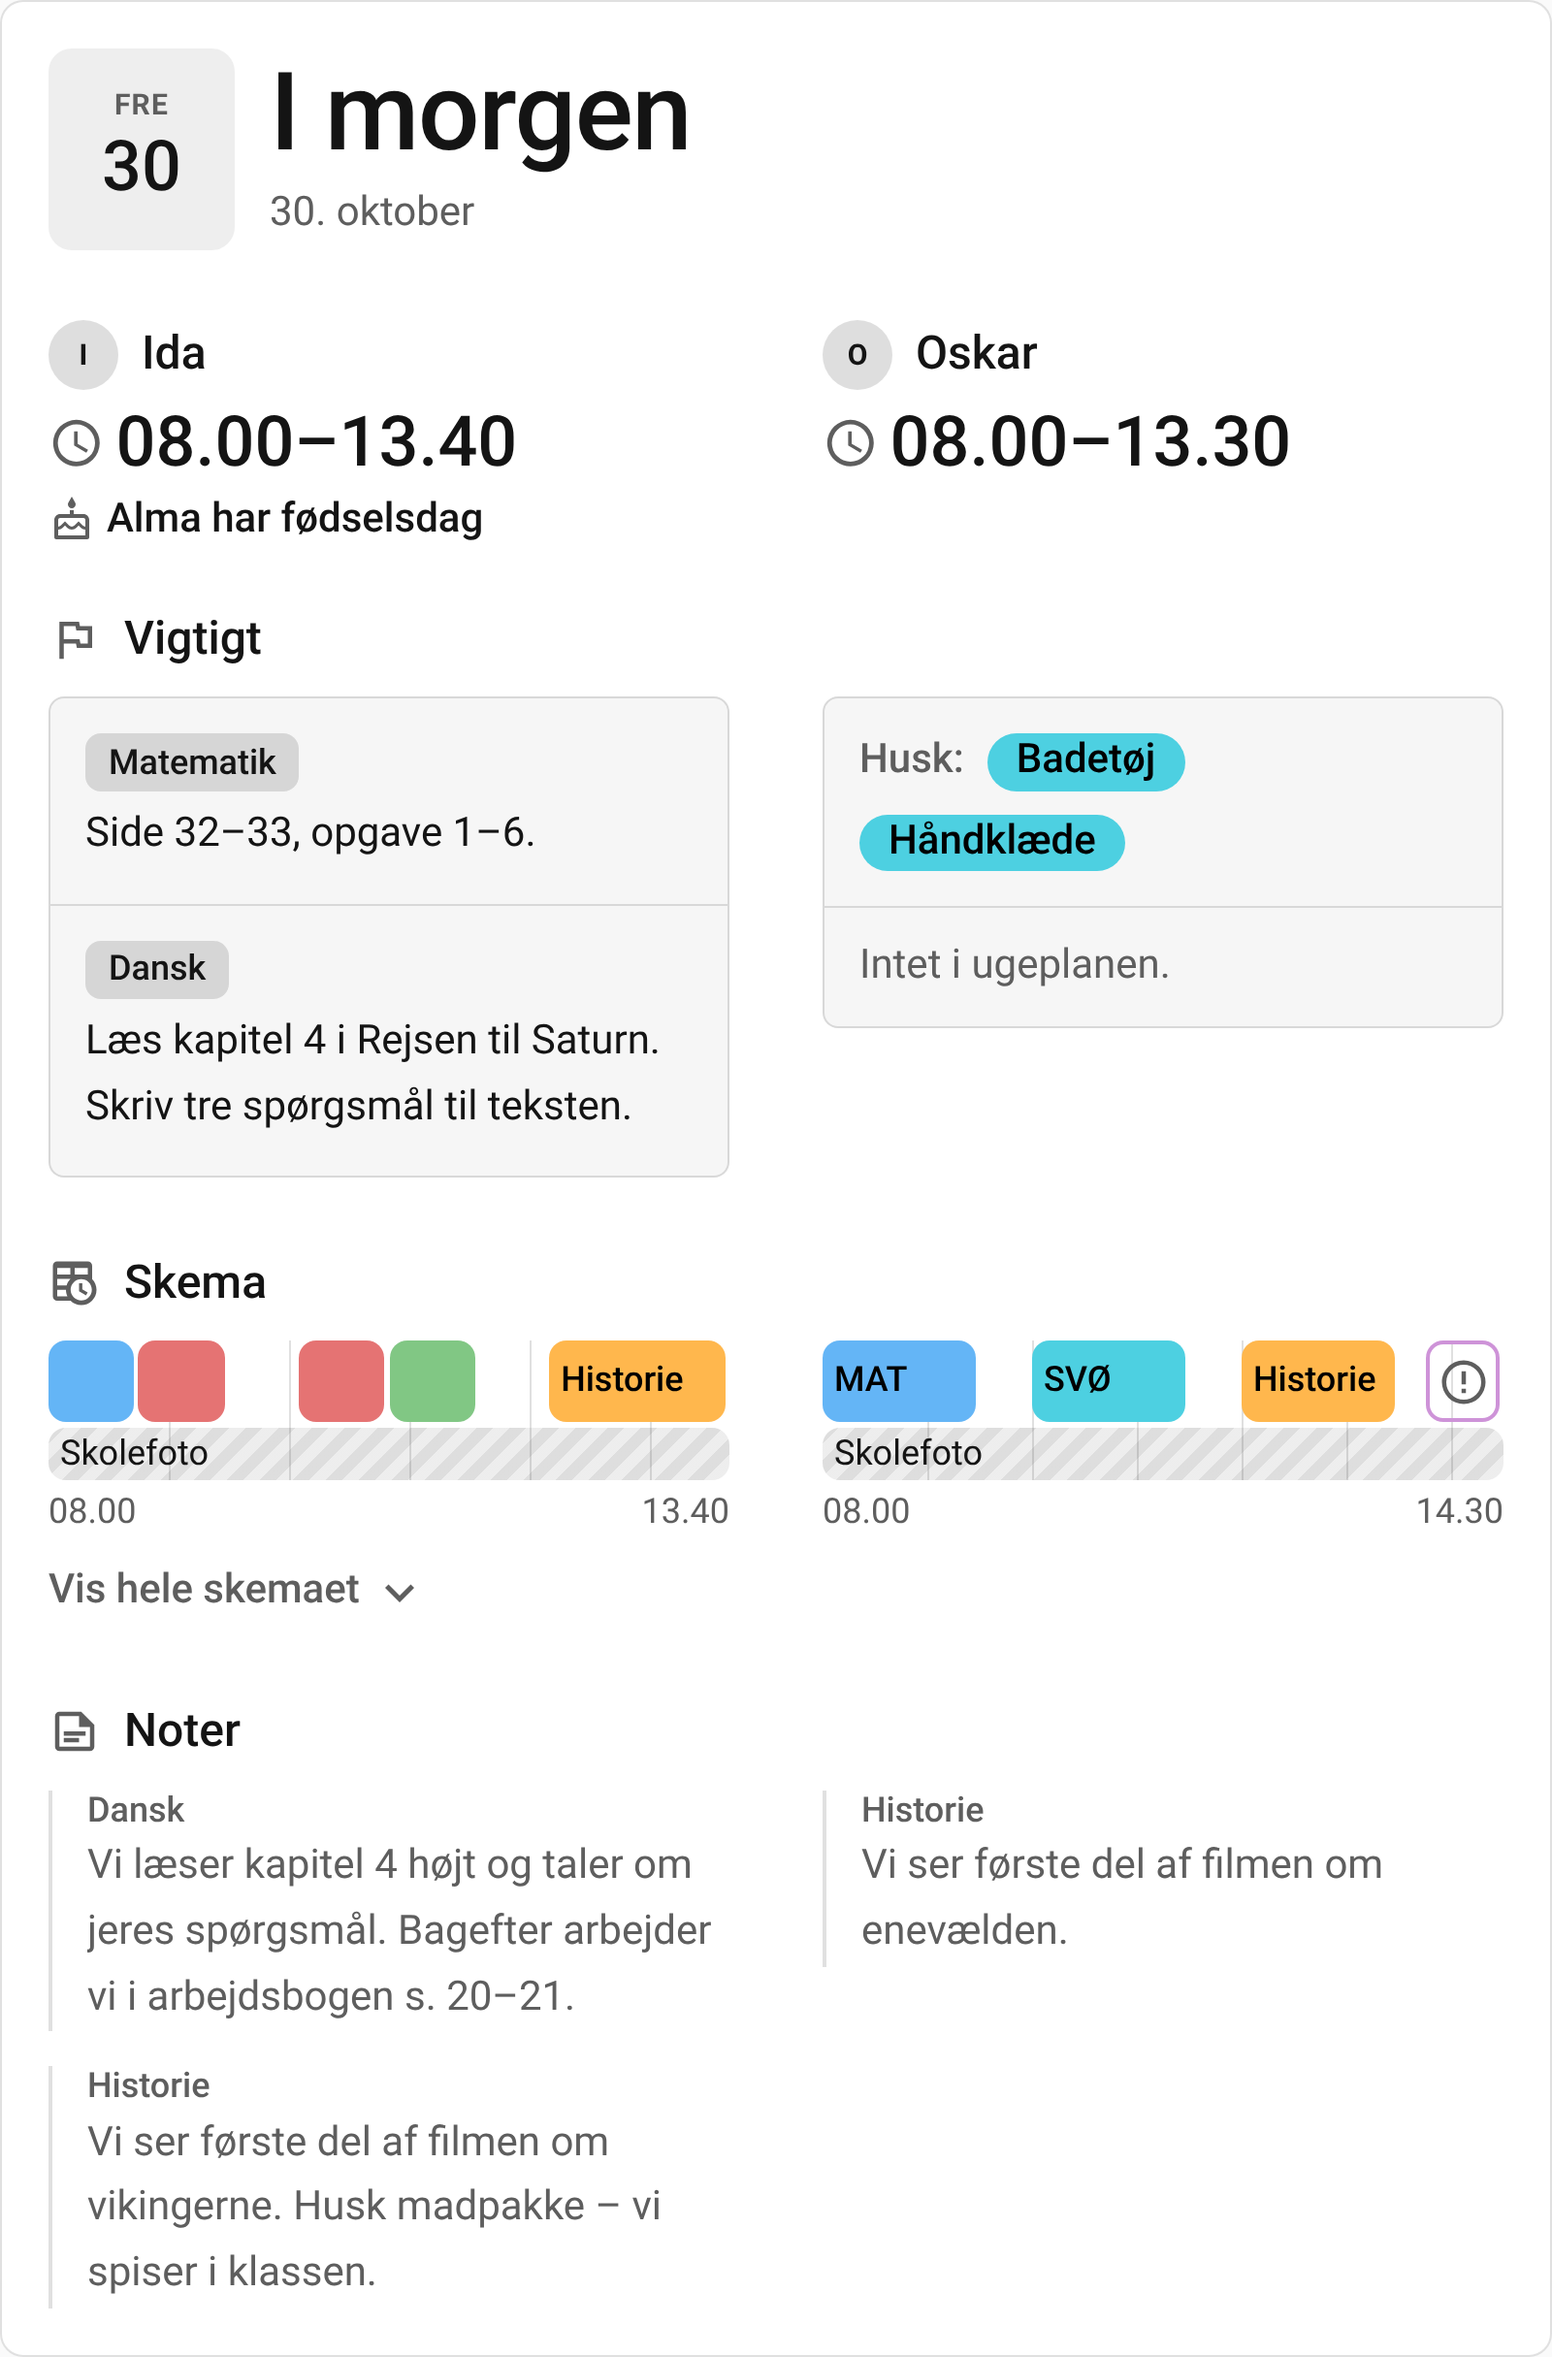
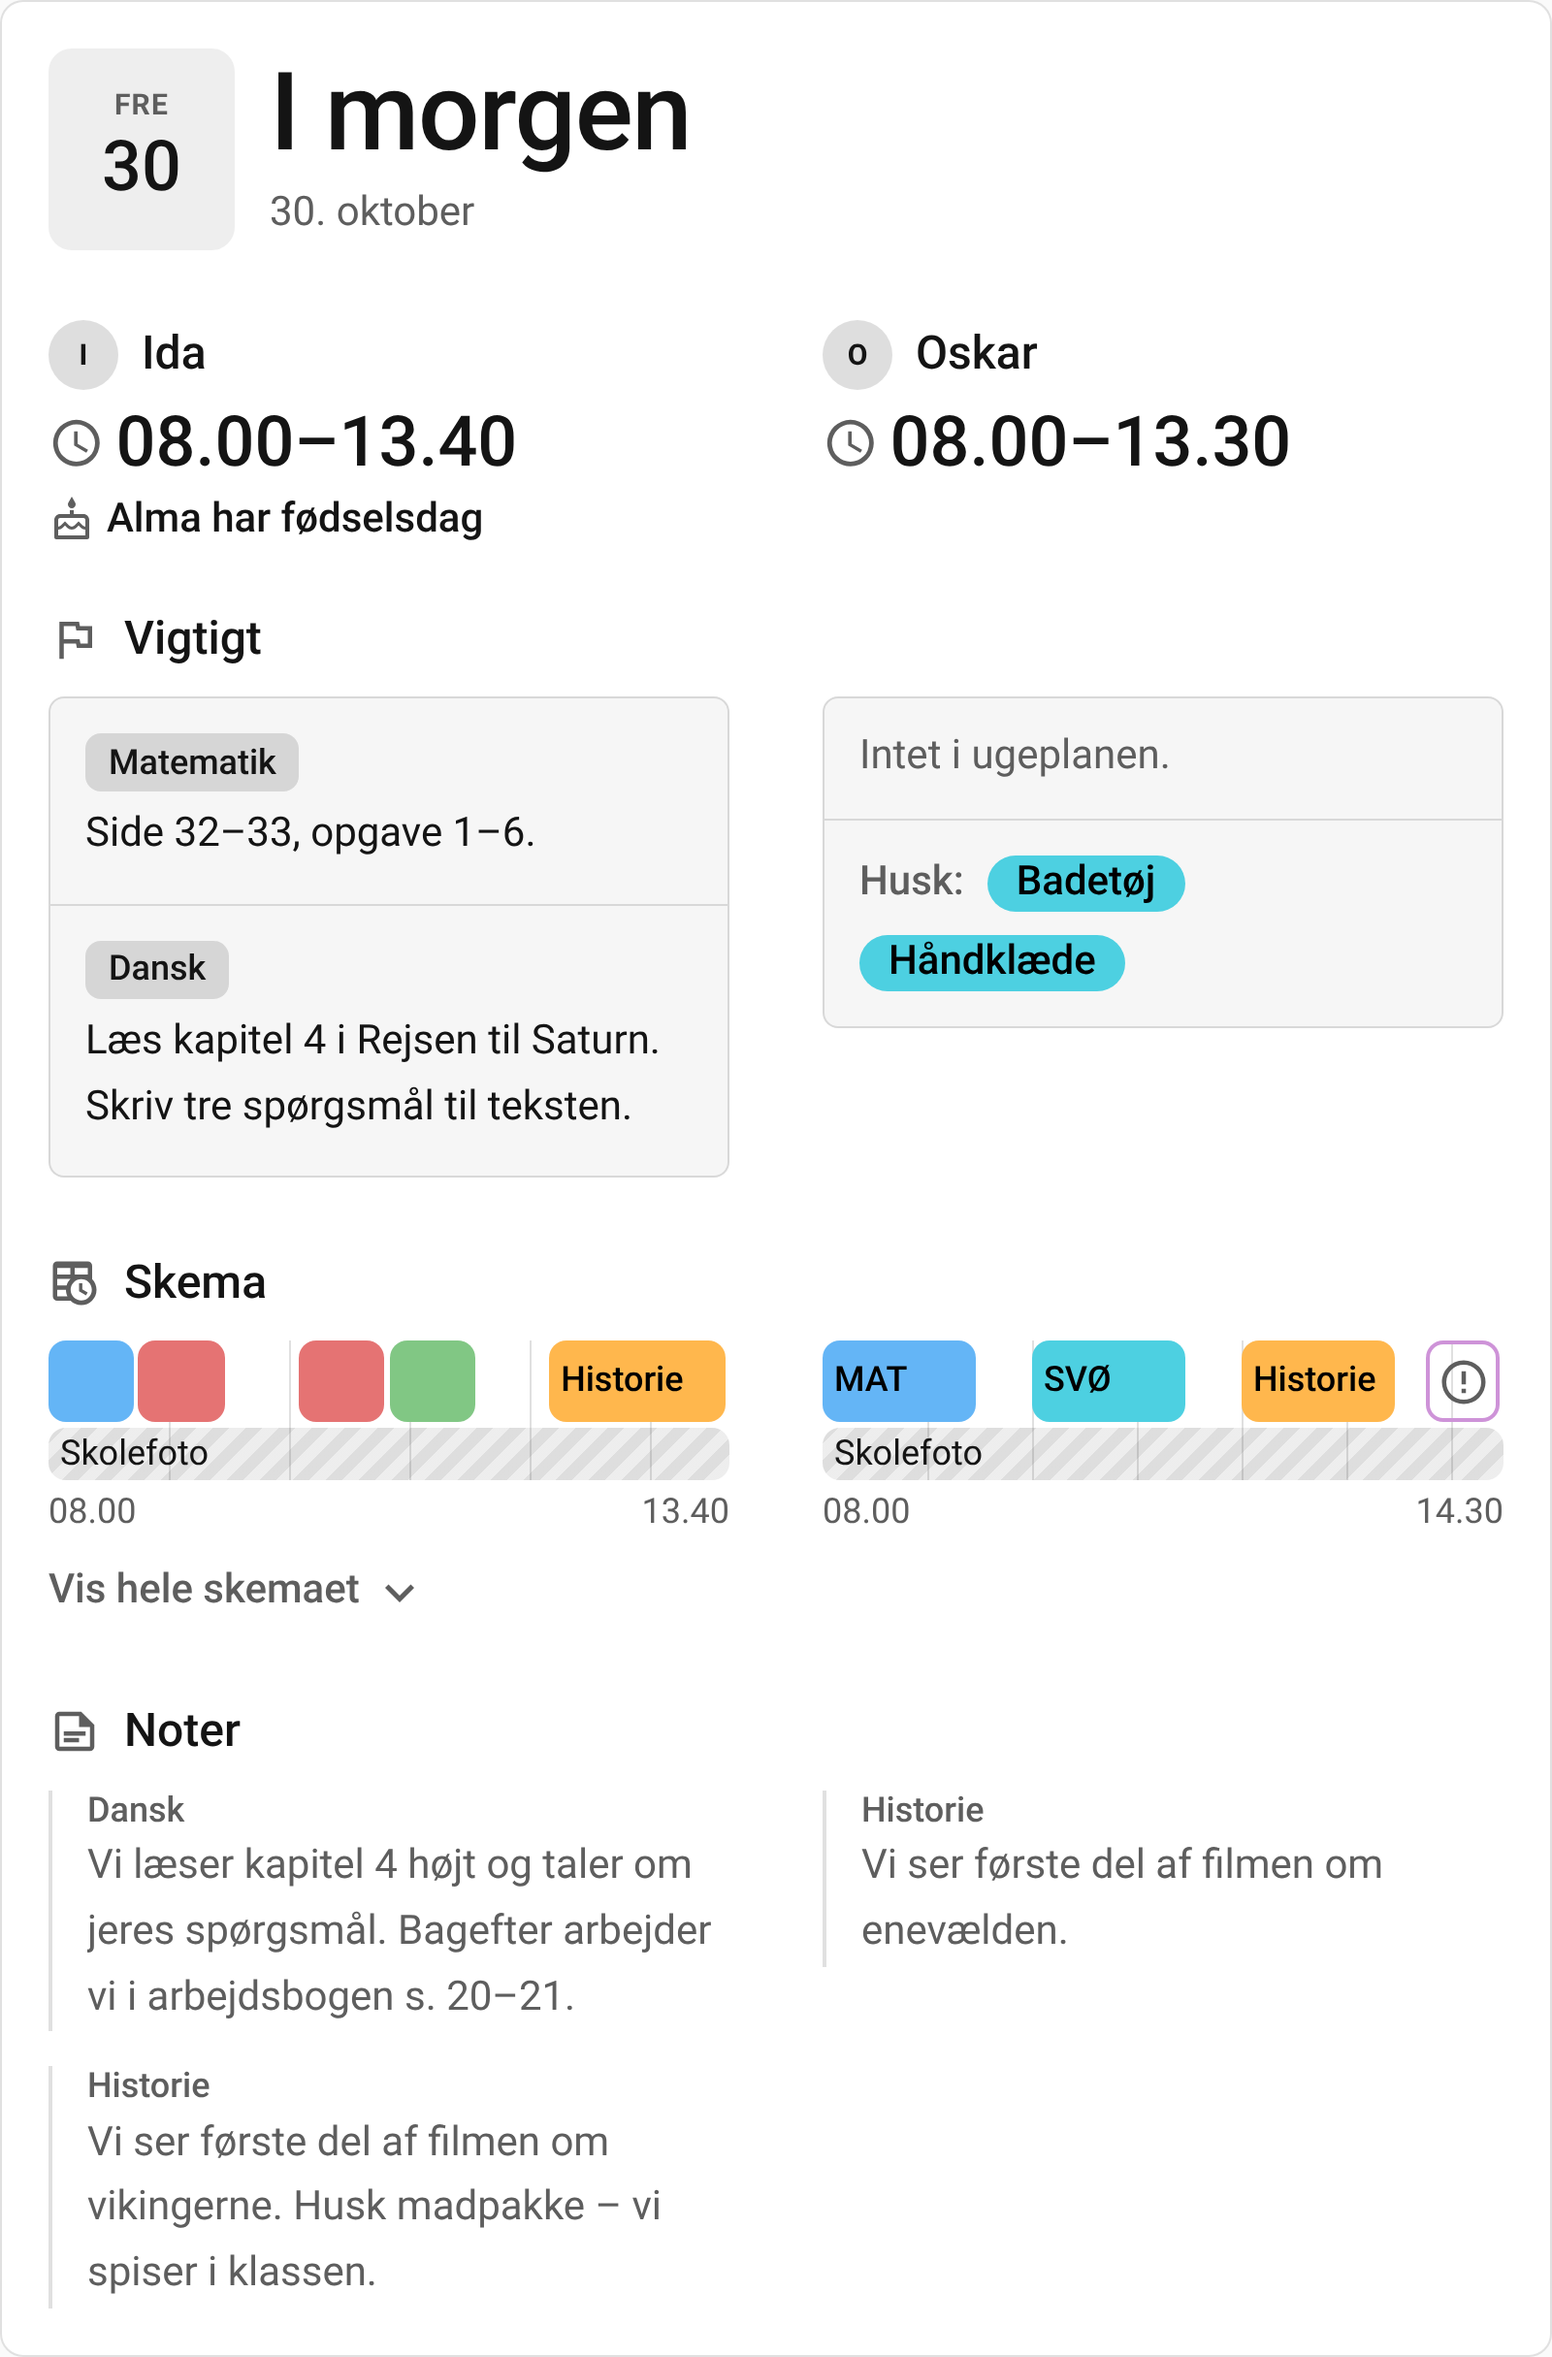
Put Husk last in Vigtigt's box, under what the week plan marks
Claude-Session: https://claude.ai/code/session_01SqQDNZBDdSDZgAEZdkAgqw

Changed region(s): [[0.5312, 0.3086, 0.7812, 0.4321]]

diff --git a/src/ui/blocks.ts b/src/ui/blocks.ts
@@ -136,12 +136,20 @@ export function emptyText(
 }
 
 /**
- * Shows Vigtigt on one surface: first what to bring, each thing in its subject's colour after
- * "Husk:", then what the week plan marks, or why it marks nothing.
+ * Shows Vigtigt on one surface: what the week plan marks, or why it marks nothing, then what to
+ * bring, each thing in its subject's colour after "Husk:".
  */
 function important(part: Part, ctx: ViewContext): TemplateResult {
   const { homework, noHomework, pack, subjects } = part.plan;
   return html`<ul class="homework">
+    ${homeworkItems(homework, ctx)}
+    ${
+      homework.length === 0 && noHomework
+        ? html`<li class="hw">
+            <p class="empty">${emptyText("task", noHomework, part.content, ctx)}</p>
+          </li>`
+        : nothing
+    }
     ${
       pack.length > 0 || subjects.length > 0
         ? html`<li class="hw hw-pack">
@@ -169,14 +177,6 @@ function important(part: Part, ctx: ViewContext): TemplateResult {
                   >`
                 : nothing
             }
-          </li>`
-        : nothing
-    }
-    ${homeworkItems(homework, ctx)}
-    ${
-      homework.length === 0 && noHomework
-        ? html`<li class="hw">
-            <p class="empty">${emptyText("task", noHomework, part.content, ctx)}</p>
           </li>`
         : nothing
     }

diff --git a/tests/ui/cards-render.test.ts b/tests/ui/cards-render.test.ts
@@ -297,7 +297,7 @@ describe("abbreviations", () => {
     expect(sport.textContent.replace(/\s+/g, " ").trim()).toBe("Idrætstøj, Håndklæde Idræt");
   });
 
-  it("stand in Vigtigt's box, over what the week plan marks or why it marks nothing", async () => {
+  it("stand last in Vigtigt's box, under what the week plan marks or why it marks nothing", async () => {
     const packing = [{ subject: "Idræt", items: ["Idrætstøj"] }];
     const { card } = await mount(DAY, "thu-1010", {
       config: { children: [1001], packing },
@@ -308,8 +308,8 @@ describe("abbreviations", () => {
       "timetable",
     ]);
     const items = all(card, '[data-block="task"] .homework > li');
-    expect(items.map((item) => item.className.trim())).toEqual(["hw hw-pack", "hw"]);
-    expect(items[1]?.textContent.trim()).toBe("Ugeplanen for uge 44 er ikke i Aula endnu.");
+    expect(items.map((item) => item.className.trim())).toEqual(["hw", "hw hw-pack"]);
+    expect(items[0]?.textContent.trim()).toBe("Ugeplanen for uge 44 er ikke i Aula endnu.");
     const { card: alone } = await mount(DAY, "thu-1010", {
       config: { children: [1001], packing, show: { task: false } },
     });

diff --git a/README.md b/README.md
@@ -70,12 +70,11 @@ always as it should be.
   the day's birthdays as one line: "Alma, Bo og Carl har fødselsdag". Before a holiday it names
   the holiday, its dates and the day school starts again.
 - **The blocks**, in this order unless you choose another:
-  - **Vigtigt** (important), in one box: first "Husk:" and the things to bring for the day's
-    subjects, from your own [packing rules](#things-to-bring), each in its subject's
-    [colour](#subject-names) as in the timetable's bar - a subject with no colour is named after
-    its things - then what the week plan marks as a task for that day - homework, a test, a thing
-    to do - every one in full: it is never folded. Where it marks none, the box says so under
-    Husk.
+  - **Vigtigt** (important), in one box: what the week plan marks as a task for that day -
+    homework, a test, a thing to do - every one in full, as it is never folded, or why it marks
+    none; then "Husk:" and the things to bring for the day's subjects, from your own
+    [packing rules](#things-to-bring), each in its subject's [colour](#subject-names) as in the
+    timetable's bar - a subject with no colour is named after its things.
   - **Skema** (timetable): the day as a bar from its first lesson to its last, with its start
     and end under it, a faint line at each full hour and, today, a line at the time it is now.
     Each lesson is a part of the bar in its subject's [colour](#subject-names), grey without one,
@@ -190,7 +189,7 @@ The child ids are the integration's; the card's editor lists the children by nam
 
 ### Things to bring
 
-**Husk**, at the top of Vigtigt, shows your own **packing rules**: what to bring when a subject is on the day's
+**Husk**, at the end of Vigtigt, shows your own **packing rules**: what to bring when a subject is on the day's
 timetable. Nothing is read from the week plan's text. A rule matches the subject by any of its
 names, so `Idræt` matches lessons Aula calls `IDR` or `3.B IDR`:
 
